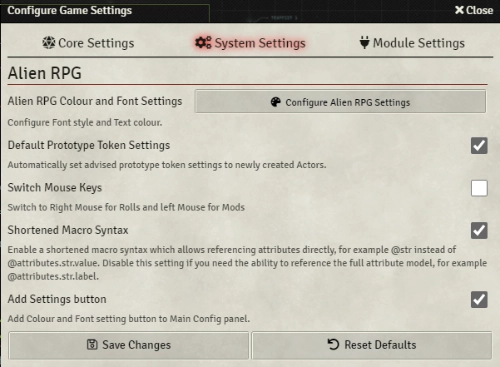
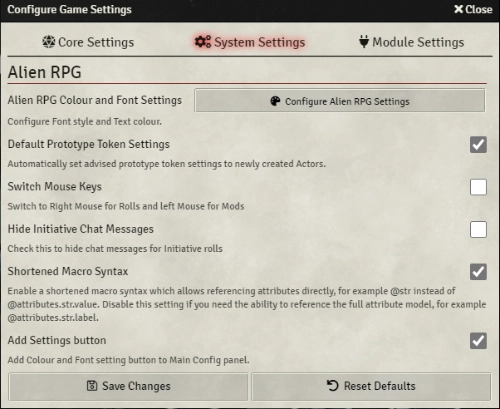
Added configuration option to hide initiative rolls from chat.

Changed region(s): [[0.0, 0.0, 1.0, 1.0], [0.6, 0.8992, 0.84, 0.9591]]

diff --git a/module/combat.js b/module/combat.js
@@ -9,92 +9,99 @@ export default class AlienRPGCombat extends Combat {
     const ia = Number.isNumeric(a.initiative) ? a.initiative : -9999;
     const ib = Number.isNumeric(b.initiative) ? b.initiative : -9999;
     let ci = ia - ib;
-    if ( ci !== 0 ) return ci;
-    let [an, bn] = [a.token?.name || "", b.token?.name || ""];
+    if (ci !== 0) return ci;
+    let [an, bn] = [a.token?.name || '', b.token?.name || ''];
     let cn = an.localeCompare(bn);
-    if ( cn !== 0 ) return cn;
+    if (cn !== 0) return cn;
     return a.tokenId - b.tokenId;
   }
-  
-  async rollInitiative(ids, {formula=null, updateTurn=true, messageOptions={}}={}) {
-    
+
+  async rollInitiative(ids, { formula = null, updateTurn = true, messageOptions = {} } = {}) {
     // Structure input data
-    ids = typeof ids === "string" ? [ids] : ids;
+    ids = typeof ids === 'string' ? [ids] : ids;
     const currentId = this.combatant._id;
-    const draw = {1:false,2:false,3:false,4:false,5:false,6:false,7:false,8:false,9:false,10:false};
+    const draw = { 1: false, 2: false, 3: false, 4: false, 5: false, 6: false, 7: false, 8: false, 9: false, 10: false };
 
     // Iterate over Combatants, performing an initiative roll for each
-    const [updates, messages] = ids.reduce((results, id, i) => {
-      if (i>9) {
-        ui.notifications.error(
-          `You can only automatically roll Initiative for 10 PCs/NPCs.  Roll initiative manually for the remaining actors or split in to multiple encounters in the Combat Tracker`,
-        );
+    const [updates, messages] = ids.reduce(
+      (results, id, i) => {
+        if (i > 9) {
+          ui.notifications.error(
+            `You can only automatically roll Initiative for 10 PCs/NPCs.  Roll initiative manually for the remaining actors or split in to multiple encounters in the Combat Tracker`
+          );
+          return results;
+        }
+
+        let [updates, messages] = results;
+
+        // Get Combatant data
+        const c = this.getCombatant(id);
+        if (!c || !c.owner) return results;
+
+        // Roll initiative
+        const cf = formula || this._getInitiativeFormula(c);
+
+        let roll = this.getInit(c, cf, updates);
+        while (draw[roll.total]) {
+          roll = this.getInit(c, cf, updates);
+        }
+        draw[roll.total] = true;
+        updates.push({ _id: id, initiative: roll.total });
+
+        if (!game.settings.get('alienrpg', 'alienrpgHideInitChat')) {
+          // Determine the roll mode
+          let rollMode = messageOptions.rollMode || game.settings.get('core', 'rollMode');
+          if ((c.token.hidden || c.hidden) && rollMode === 'roll') rollMode = 'gmroll';
+          {
+            /* <img width="125" height="175" src="systems/alienrpg/images/cards/card-${roll.total}.png" style="horizontal-align:centre"> */
+          }
+          let cardPath = `<div style="text-align: center;"><img width="125" height="175" src="systems/alienrpg/images/cards/card-${roll.total}.png"></div>`;
+          // if (!game.settings.get(ssmoduleKey, 'imported' || !game.settings.get(crmoduleKey, 'imported')){
+          try {
+            if (game.settings.get(crmoduleKey, 'imported')) {
+              cardPath = `<div style="text-align: center;"><img width="125" height="175" src="modules/alienrpg-corerules/images/cards/card-${roll.total}.png"></div>`;
+            }
+          } catch (error) {
+            try {
+              if (game.settings.get(ssmoduleKey, 'imported')) {
+                cardPath = `<div style="text-align: center;"><img width="125" height="175" src="modules/alienrpg-starterset/images/cards/card-${roll.total}.png"></div>`;
+              }
+            } catch (error) {}
+          }
+
+          // Construct chat message data
+          let messageData = mergeObject(
+            {
+              speaker: {
+                scene: canvas.scene._id,
+                actor: c.actor ? c.actor._id : null,
+                token: c.token._id,
+                alias: c.token.name,
+              },
+              flavor: `${c.token.name} rolls for Initiative! <br> ${cardPath}`,
+              flags: { 'core.initiativeRoll': true },
+            },
+            messageOptions
+          );
+          const chatData = roll.toMessage(messageData, { create: false, rollMode });
+          // Play 1 sound for the whole rolled set
+          if (i > 0) chatData.sound = null;
+          messages.push(chatData);
+        }
+
+        // Return the Roll and the chat data
         return results;
-      }
-      
-      let [updates, messages] = results;
-
-      // Get Combatant data
-      const c = this.getCombatant(id);
-      if ( !c || !c.owner ) return results;
-
-      // Roll initiative
-      const cf = formula || this._getInitiativeFormula(c);
-
-    let roll = this.getInit(c, cf, updates);
-      while (draw[roll.total]){
-        roll = this.getInit(c, cf, updates);
-      }
-      draw[roll.total] = true;
-      updates.push({_id: id, initiative: roll.total});
-
-      // Determine the roll mode
-      let rollMode = messageOptions.rollMode || game.settings.get("core", "rollMode");
-      if (( c.token.hidden || c.hidden ) && (rollMode === "roll") ) rollMode = "gmroll";
-{/* <img width="125" height="175" src="systems/alienrpg/images/cards/card-${roll.total}.png" style="horizontal-align:centre"> */}
-      let cardPath = `<div style="text-align: center;"><img width="125" height="175" src="systems/alienrpg/images/cards/card-${roll.total}.png"></div>`;
-      // if (!game.settings.get(ssmoduleKey, 'imported' || !game.settings.get(crmoduleKey, 'imported')){
-      try {
-              if (game.settings.get(crmoduleKey, 'imported')){
-        cardPath = `<div style="text-align: center;"><img width="125" height="175" src="modules/alienrpg-corerules/images/cards/card-${roll.total}.png"></div>`;
-      }
-      } catch (error) {
-        try {
-          if (game.settings.get(ssmoduleKey, 'imported')){
-    cardPath = `<div style="text-align: center;"><img width="125" height="175" src="modules/alienrpg-starterset/images/cards/card-${roll.total}.png"></div>`;
-  }
-  } catch (error) {
-  }  
-      }  
-
-      // Construct chat message data
-      let messageData = mergeObject({
-        speaker: {
-          scene: canvas.scene._id,
-          actor: c.actor ? c.actor._id : null,
-          token: c.token._id,
-          alias: c.token.name
-        },
-        flavor: `${c.token.name} rolls for Initiative! <br> ${cardPath}`,
-        flags: {"core.initiativeRoll": true}
-      }, messageOptions);
-      const chatData = roll.toMessage(messageData, {create:false, rollMode});
-
-      // Play 1 sound for the whole rolled set
-      if ( i > 0 ) chatData.sound = null;
-      messages.push(chatData);
-
-      // Return the Roll and the chat data
-      return results;
-    }, [[], []]);
-    if ( !updates.length ) return this;
+      },
+      [[], []]
+    );
+    if (!updates.length) return this;
 
     // Update multiple combatants
-    await this.updateEmbeddedEntity("Combatant", updates);
+    await this.updateEmbeddedEntity('Combatant', updates);
 
     // Ensure the turn order remains with the same combatant
-    if ( updateTurn ) {
-      await this.update({turn: this.turns.findIndex(t => t._id === currentId)});
+    if (updateTurn) {
+      await this.update({ turn: this.turns.findIndex((t) => t._id === currentId) });
     }
 
     // Create multiple chat messages
@@ -102,19 +109,15 @@ export default class AlienRPGCombat extends Combat {
 
     // Return the updated Combat
     return this;
-    
   }
 
-
-    getInit(c, cf, updates, roll) {
-        roll = this._getInitiativeRoll(c, cf);
-        if (updates.some(updates => updates["initiative"] === roll.total ) ) {
-            this.getInit( c, cf, updates);
-        } else {
-            return roll;
-            }
-            return roll;
-     
+  getInit(c, cf, updates, roll) {
+    roll = this._getInitiativeRoll(c, cf);
+    if (updates.some((updates) => updates['initiative'] === roll.total)) {
+      this.getInit(c, cf, updates);
+    } else {
+      return roll;
     }
-
+    return roll;
+  }
 }

diff --git a/module/settings.js b/module/settings.js
@@ -35,4 +35,13 @@ export default function () {
     default: 0,
     type: Number,
   });
+
+  game.settings.register('alienrpg', 'alienrpgHideInitChat', {
+    name: 'ALIENRPG.hideInitChat',
+    hint: 'ALIENRPG.hideInitChatHint',
+    scope: 'world',
+    config: true,
+    default: false,
+    type: Boolean,
+  });
 }
